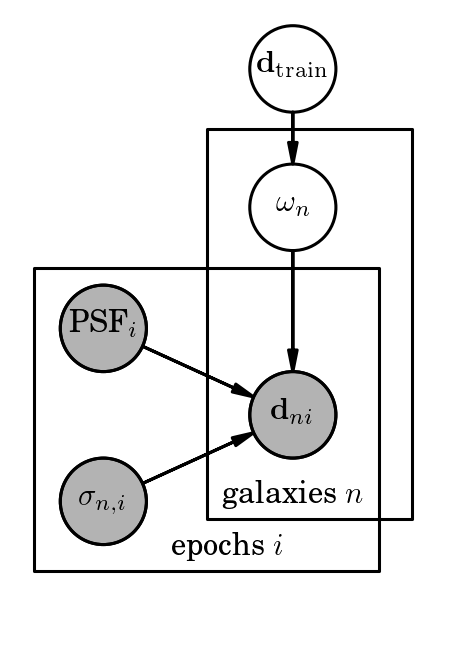
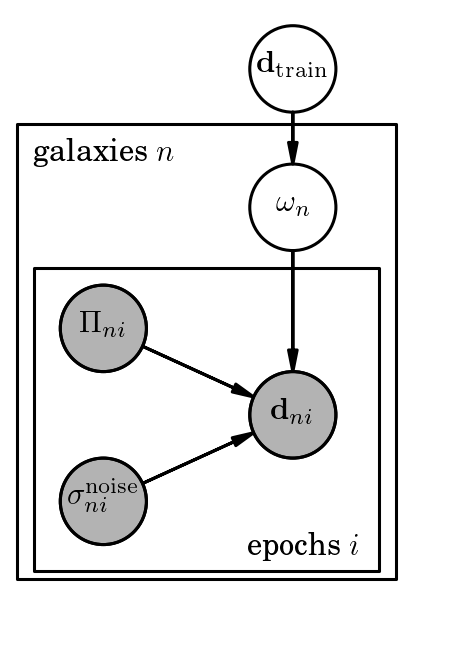
Fixed an error in the PGM plot for the JIF model.

Changed region(s): [[0.0307, 0.1826, 0.9211, 0.8828], [0.1535, 0.4566, 0.307, 0.5175], [0.1535, 0.7306, 0.307, 0.7915]]

diff --git a/reports/pgm/pgm_jif_paper1.py b/reports/pgm/pgm_jif_paper1.py
@@ -12,16 +12,16 @@ pgm = daft.PGM(figshape, origin=figorigin)
 pgm.add_node(daft.Node("P(omega)", r"${\bf d}_{\rm train}$", 2.1, 3))
 pgm.add_node(daft.Node("gal_props", r"$\omega_{n}$", 2.1, 2.2))
 pgm.add_node(daft.Node("data", r"${\bf d}_{ni}$", 2.1, 1, observed=True))
-pgm.add_node(daft.Node("PSF", r"PSF$_{i}$", 1, 1.5, observed=True))
-pgm.add_node(daft.Node("noise", r"$\sigma_{n,i}$", 1, 0.5, observed=True))
+pgm.add_node(daft.Node("PSF", r"$\Pi_{ni}$", 1, 1.5, observed=True))
+pgm.add_node(daft.Node("noise", r"$\sigma^{\rm noise}_{ni}$", 1, 0.5, observed=True))
 
 pgm.add_edge("P(omega)", "gal_props")
 pgm.add_edge("gal_props", "data")
 pgm.add_edge("PSF", "data")
 pgm.add_edge("noise", "data")
 
-pgm.add_plate(daft.Plate([1.6, 0.4, 1.19, 2.25], label=r"galaxies $n$", label_offset=[5, 5]))
-pgm.add_plate(daft.Plate([0.6, 0.1, 2.0, 1.75], label=r"epochs $i$", label_offset=[45, 5]))
+pgm.add_plate(daft.Plate([0.5, 0.05, 2.2, 2.63], label=r"galaxies $n$", label_offset=[5, 137]))
+pgm.add_plate(daft.Plate([0.6, 0.1, 2.0, 1.75], label=r"epochs $i$", label_offset=[70, 5]))
 
 pgm.render()
 pgm.figure.savefig("../jif_paper1/figure/pgm.png", dpi=220)
